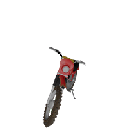
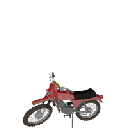
Remove rotation for bike (temp)

Changed region(s): [[0.1562, 0.3438, 0.8125, 1.0]]

diff --git a/Program.cs b/Program.cs
@@ -2,6 +2,7 @@
 using System.Globalization;
 using System.Threading;
 using System.Windows.Forms;
+using System.Management;
 
 namespace SLIL
 {
@@ -29,11 +30,34 @@ namespace SLIL
                     MessageBox.Show(message, title, MessageBoxButtons.OK, MessageBoxIcon.Information);
                     return;
                 }
+                if (!HasEnoughMemory())
+                {
+                    Console.WriteLine("Внимание: У вас меньше 4 ГБ оперативной памяти. Производительность приложения может быть снижена.");
+                }
                 Application.EnableVisualStyles();
                 Application.SetCompatibleTextRenderingDefault(false);
                 Application.Run(new Loading());
                 mutex.ReleaseMutex();
             }
+        }
+
+        static bool HasEnoughMemory()
+        {
+            try
+            {
+                ManagementObjectSearcher searcher = new ManagementObjectSearcher("SELECT TotalPhysicalMemory FROM Win32_ComputerSystem");
+                foreach (ManagementObject obj in searcher.Get())
+                {
+                    ulong totalMemory = Convert.ToUInt64(obj["TotalPhysicalMemory"]);
+                    ulong memoryInGB = totalMemory / 1024 / 1024 / 1024;
+                    return memoryInGB >= 4;
+                }
+            }
+            catch (Exception ex)
+            {
+                Console.WriteLine($"Ошибка при проверке памяти: {ex.Message}");
+            }
+            return false;
         }
 
         static bool Check_Language()

diff --git a/Classes/TextureCache.cs b/Classes/TextureCache.cs
@@ -138,6 +138,7 @@ namespace SLIL.Classes
             },
             { 20, new Dictionary<SpriteStates, Image>()
                 {
+                    { SpriteStates.Static, Properties.Resources.bike_forward },
                     { SpriteStates.StopForward, Properties.Resources.bike_forward },
                     { SpriteStates.StopBack, Properties.Resources.bike_back },
                     { SpriteStates.StopLeft, Properties.Resources.bike_left },
@@ -323,6 +324,7 @@ namespace SLIL.Classes
             },
             { 20, new Dictionary<SpriteStates, Image>()
                 {
+                    { SpriteStates.Static, Properties.Resources.bike_forward },
                     { SpriteStates.StopForward, Properties.Resources.bike_forward },
                     { SpriteStates.StopBack, Properties.Resources.bike_back },
                     { SpriteStates.StopLeft, Properties.Resources.bike_left },

diff --git a/GameServer/Program.cs b/GameServer/Program.cs
@@ -601,7 +601,7 @@ namespace GameServer
                     Console.SetCursorPosition(42, 4);
                     ServerPassword = GetInput(10, false);
                     Console.CursorVisible = false;
-                    if (ServerPassword.Length == 0)
+                    if (ServerPassword.Length < 4)
                     {
                         Console.ForegroundColor = ConsoleColor.DarkGray;
                         ServerPassword = "None";

diff --git a/Classes/Entity.cs b/Classes/Entity.cs
@@ -540,7 +540,7 @@ namespace SLIL.Classes
             Index = 0;
             CanJump = true;
             AddToShop = true;
-            HasSpriteRotation = true;
+            //HasSpriteRotation = true;
             Cost = 150;
             TransportHP = 150;
             Speed = 2.35;

diff --git a/GameServer/Entity.cs b/GameServer/Entity.cs
@@ -535,7 +535,7 @@ namespace GameServer
             Index = 0;
             CanJump = true;
             AddToShop = true;
-            HasSpriteRotation = true;
+            //HasSpriteRotation = true;
             Cost = 150;
             TransportHP = 150;
             Speed = 2.35;
